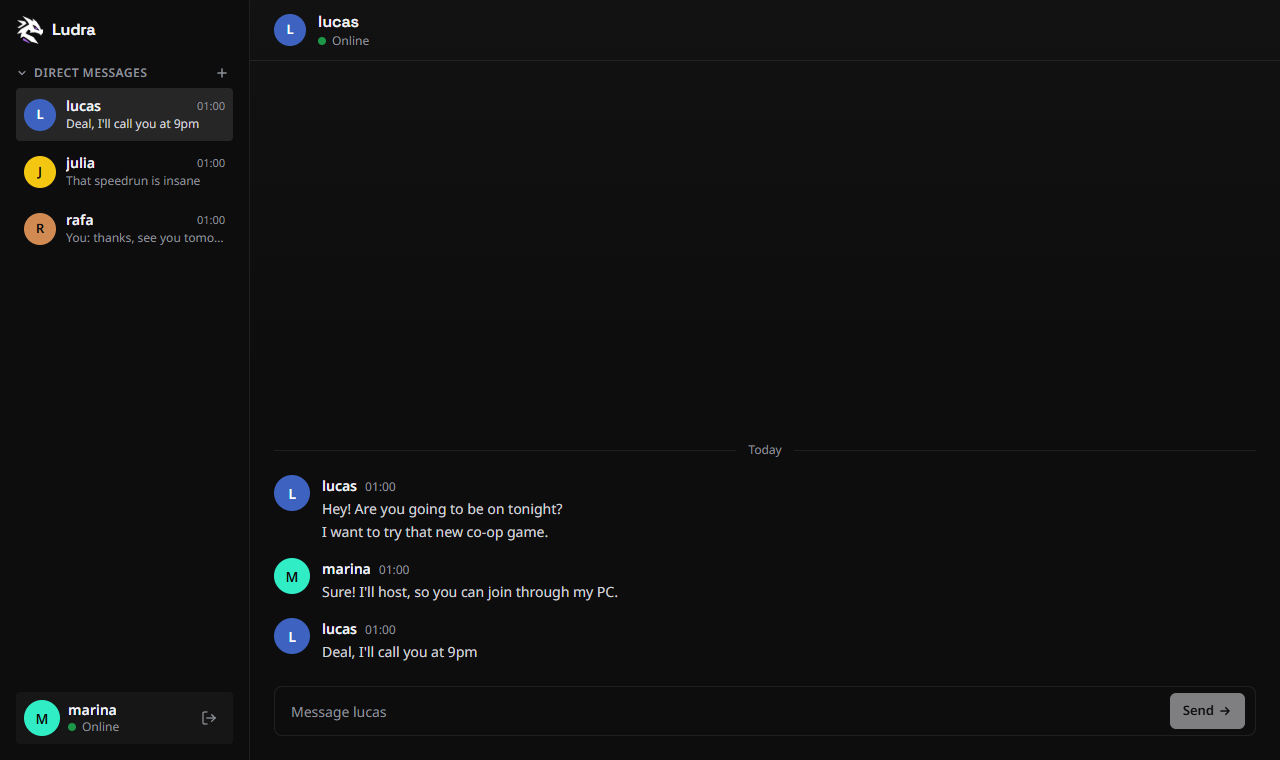
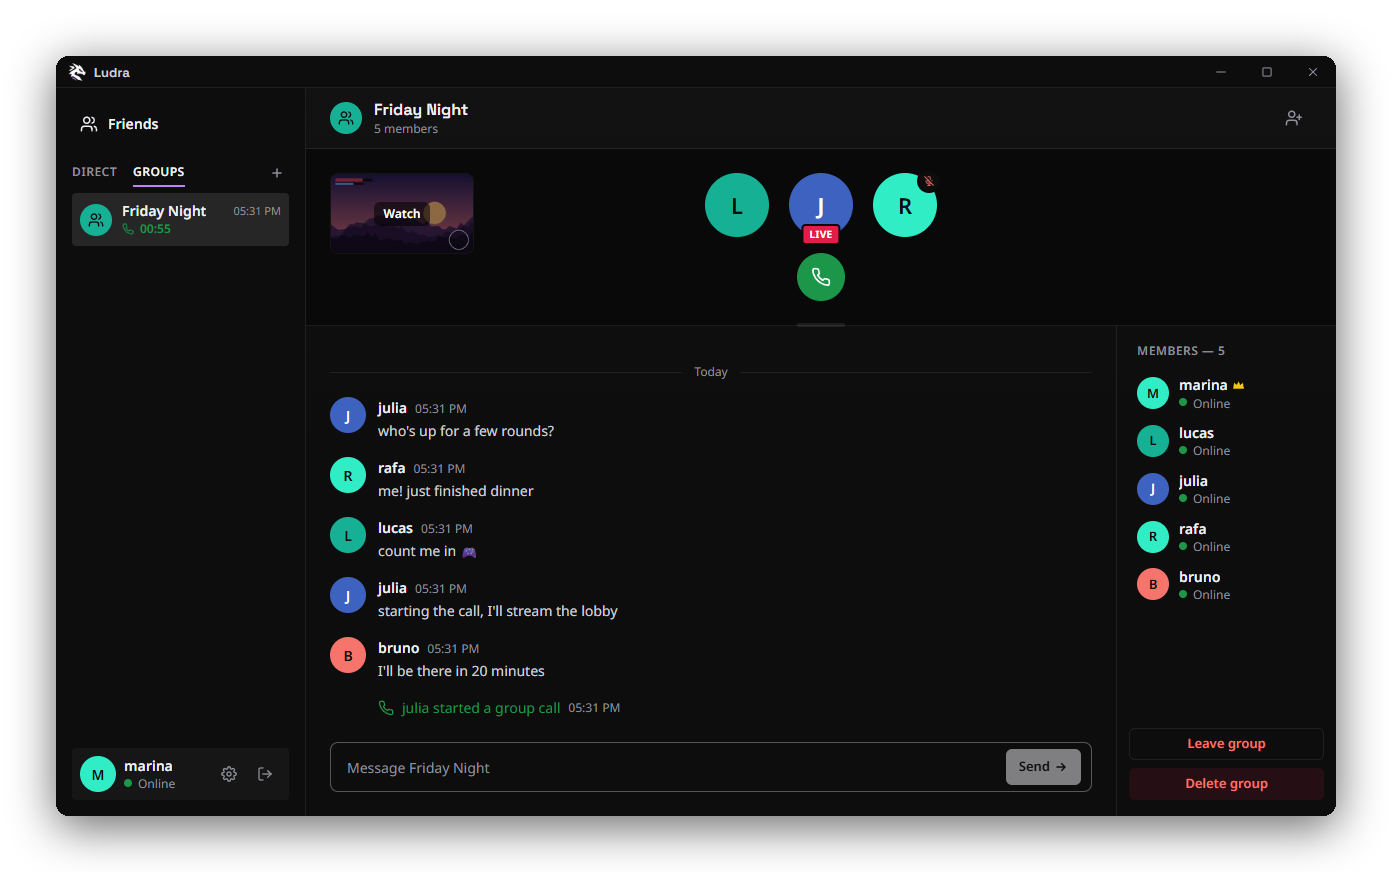
docs: update README features, setup and screenshot

diff --git a/README.md b/README.md
@@ -5,9 +5,8 @@
 
   <p>
     <strong>
-      Ludra is an open-source app for chatting and playing with friends. Right now it does direct messages. Voice
-      calls, screen sharing and remote play come next. The server is written in Go and the desktop app in Tauri and
-      Svelte.
+      Ludra is an open-source app for chatting and playing with friends: messages, groups, voice calls and screen
+      sharing, with remote play coming next. The server is written in Go and the desktop app in Tauri and Svelte.
     </strong>
   </p>
 
@@ -24,11 +23,21 @@
 
 ## Features
 
-- [x] Direct messages
-- [x] Online status
-- [ ] Voice calls
-- [ ] Screen and camera sharing
+- [x] Direct messages and groups of up to 10 people
+- [x] Friends, blocking, and Online, Busy and Invisible status
+- [x] Voice calls in direct messages and groups, with noise suppression
+- [x] Screen sharing up to 1440p at 120 FPS, with system audio
+- [x] Call verification with signed signaling and a safety code
+- [x] Optional direct connection between friends for lower latency
+- [x] Automatic updates
+- [x] Portuguese and English
+- [ ] Communities with channels
 - [ ] Remote play
+
+## Download
+
+Ludra runs on Windows. Builds are published as pre-releases on the
+[Releases](https://github.com/ludragg/ludra/releases) page while the app is in early development.
 
 ## Running locally
 
@@ -50,9 +59,12 @@ npm install
 npm run tauri dev
 ```
 
-The server runs on `127.0.0.1:8080` and creates the database tables on startup. You can change it with
+The server runs on `127.0.0.1:8080` and runs the database migrations on startup. You can change it with
 `LUDRA_ADDR`, `LUDRA_DATABASE_URL` and `LUDRA_ORIGINS`. The app connects to `ws://127.0.0.1:8080/ws`, or to
 `VITE_LUDRA_SERVER` if set.
+
+Calls go through the TURN relay built into the server. It listens on UDP `3478` by default and is configured with the
+`LUDRA_TURN_*` variables in [`.env.example`](.env.example).
 
 Without SMTP settings, the server prints verification and password reset codes to its log instead of sending
 emails. To send real emails, set the variables listed in [`.env.example`](.env.example). With Gmail, use an
@@ -60,9 +72,10 @@ emails. To send real emails, set the variables listed in [`.env.example`](.env.e
 
 ## Project layout
 
-- `apps/desktop`: the desktop app
+- `apps/desktop`: the desktop app (Svelte in `src`, Rust in `src-tauri`)
 - `server`: the Go server
 - `protocol`: Protobuf messages shared by both
+- `deploy`: Docker Compose setup for hosting your own server, see [`deploy/README.md`](deploy/README.md)
 
 If you change a `.proto` file, run `buf generate` inside `protocol`. If you change a SQL query or migration, run sqlc
 inside `server`:
@@ -71,7 +84,8 @@ inside `server`:
 docker run --rm -v "$PWD:/src" -w /src sqlc/sqlc:1.30.0 generate
 ```
 
-Run `npm run format` and `npm run check` in `apps/desktop` before opening a pull request.
+Before opening a pull request, run `npm run format` and `npm run check` in `apps/desktop`, and `cargo fmt` in
+`apps/desktop/src-tauri`. See [`CONTRIBUTING.md`](CONTRIBUTING.md) for the rest.
 
 ## Contributors
 

diff --git a/CONTRIBUTING.md b/CONTRIBUTING.md
@@ -33,7 +33,7 @@ Add the area when it helps: `feat(server): ...`, `fix(desktop): ...`.
 
 ## Code
 
-- Code, commit messages and docs are in English. The app UI is in Portuguese for now.
+- Code, commit messages and docs are in English. The app UI is in Portuguese and English, so add new strings to both `apps/desktop/src/i18n/pt.ts` and `en.ts`.
 - No comments in the code. If something needs explaining, make the code clearer instead.
 - Keep it light. Think twice before adding a dependency.
 - Components live in `apps/desktop/src/components/<name>/<name>.svelte` and use BEM class names.
